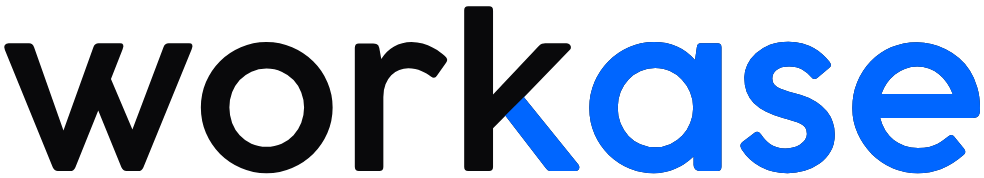
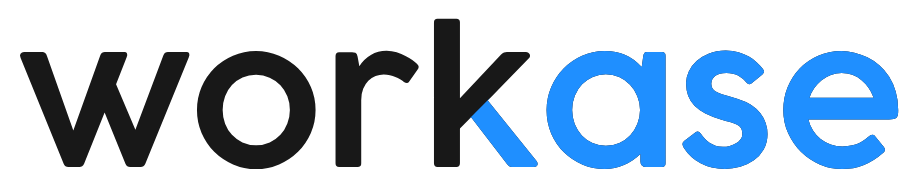
feat(web): add axios instance and api fetch example

diff --git a/apps/web/src/app/example/_components/form-example.tsx b/apps/web/src/app/example/_components/form-example.tsx
@@ -1,8 +1,11 @@
 'use client';
 
+import { useState } from 'react';
 import { useFormik } from 'formik';
 import * as Yup from 'yup';
 
+import { GetSampleByEmail } from '@/lib/apis/sample';
+import { GetSampleResponse } from '@/lib/interfaces/api-response/sample';
 import { Button } from '@/components/shadcn-ui/button';
 import { Card } from '@/components/shadcn-ui/card';
 import Loading from '@/components/ui/loading';
@@ -21,18 +24,31 @@ const validationSchema = Yup.object().shape({
 });
 
 const FormExample = () => {
+  const [email, setEmail] = useState<string>('');
+
   const formik = useFormik({
     initialValues: {
       email: '',
       password: '',
     },
     validationSchema: validationSchema,
-    onSubmit: (values: FormValues, { resetForm }) => {
-      console.log(values);
+    onSubmit: async (values: FormValues, { resetForm }) => {
+      formik.setStatus('');
 
-      setTimeout(() => {
-        resetForm();
-      }, 1000 * 5);
+      await new Promise((resolve) => setTimeout(resolve, 5000));
+
+      const response: GetSampleResponse = await GetSampleByEmail({
+        email: values.email,
+      });
+
+      console.log(response);
+
+      if (response.success) {
+        setEmail(response.data.email);
+      } else {
+        formik.setStatus('Login failed');
+        setEmail('');
+      }
     },
   });
 
@@ -57,12 +73,19 @@ const FormExample = () => {
             value={formik.values.password}
             errorMessage={formik.errors.password}
           />
+          <p className="text-sm text-red-500">{formik.status}</p>
           <Button type="submit" disabled={formik.isSubmitting}>
             Submit
           </Button>
         </form>
       </Card>
-      {formik.isSubmitting && <Loading size="sm" label="Submitting" />}
+      <div className="flex items-center justify-center gap-6">
+        {formik.isSubmitting ? (
+          <Loading size="sm" label="Submitting" />
+        ) : (
+          <p>{email}</p>
+        )}
+      </div>
     </>
   );
 };

diff --git a/apps/web/src/app/example/page.tsx b/apps/web/src/app/example/page.tsx
@@ -1,3 +1,5 @@
+import Image from 'next/image';
+
 import FormExample from './_components/form-example';
 import CardExample from './_components/card-example';
 import { Button } from '@/components/shadcn-ui/button';
@@ -9,6 +11,13 @@ const ExamplePage = () => {
       <div className="flex flex-col gap-2">
         <h1 className="heading">Workase</h1>
         <span className="text-primary-gray text-sm">Job Board Web App</span>
+        <Image
+          src="/workase.png"
+          alt="Logo"
+          width={500}
+          height={102.61}
+          className="w-[120px]"
+        />
         <p>
           Lorem ipsum dolor sit amet consectetur adipisicing elit. Eius sed
           sequi laborum corporis quidem, modi minus quam minima nemo, nesciunt
@@ -16,6 +25,7 @@ const ExamplePage = () => {
           quibusdam.
         </p>
       </div>
+
       <div className="flex flex-col gap-2">
         <h1 className="heading">Button Example</h1>
         <Button className="w-fit">Get Started</Button>

diff --git a/apps/web/src/lib/apis/sample.ts b/apps/web/src/lib/apis/sample.ts
@@ -1,0 +1,19 @@
+import { AxiosError } from 'axios';
+
+import { axiosPublic } from '../axios';
+import { GetSampleRequest } from '../interfaces/api-request/sample';
+import { GetSampleResponse } from '../interfaces/api-response/sample';
+
+export const GetSampleByEmail = async ({ email }: GetSampleRequest) => {
+  try {
+    const response = await axiosPublic.get(`/samples/${email}`);
+
+    return response.data;
+  } catch (error) {
+    if (error instanceof AxiosError) {
+      return error.response?.data as GetSampleResponse;
+    }
+
+    console.error(error);
+  }
+};

diff --git a/apps/web/src/lib/axios.ts b/apps/web/src/lib/axios.ts
@@ -1,0 +1,18 @@
+import axios from 'axios';
+import { API_BASE_URL } from './constants/constants';
+
+export const axiosPublic = axios.create({
+  baseURL: API_BASE_URL,
+  headers: {
+    'Content-Type': 'application/json',
+  },
+});
+
+export const axiosPrivate = (token: string) =>
+  axios.create({
+    baseURL: API_BASE_URL,
+    headers: {
+      Authorization: `Bearer ${token}`,
+      'Content-Type': 'application/json',
+    },
+  });

diff --git a/apps/web/src/lib/interfaces/api-response/sample.ts b/apps/web/src/lib/interfaces/api-response/sample.ts
@@ -1,0 +1,12 @@
+import { APIResponse } from './response';
+
+export interface Sample {
+  id: string;
+  name: string;
+  email: string;
+  isDeleted: boolean;
+}
+
+export interface GetSampleResponse extends APIResponse {
+  data: Sample;
+}

diff --git a/apps/web/src/lib/interfaces/api-response/response.ts b/apps/web/src/lib/interfaces/api-response/response.ts
@@ -1,0 +1,7 @@
+export interface APIResponse {
+  success: boolean;
+  message: string;
+  error?: {
+    message: string;
+  };
+}

diff --git a/apps/web/src/lib/constants/constants.ts b/apps/web/src/lib/constants/constants.ts
@@ -1,0 +1,1 @@
+export const API_BASE_URL = process.env.NEXT_PUBLIC_API_BASE_URL as string;

diff --git a/apps/web/src/lib/interfaces/api-request/sample.ts b/apps/web/src/lib/interfaces/api-request/sample.ts
@@ -1,0 +1,3 @@
+export interface GetSampleRequest {
+  email: string;
+}
